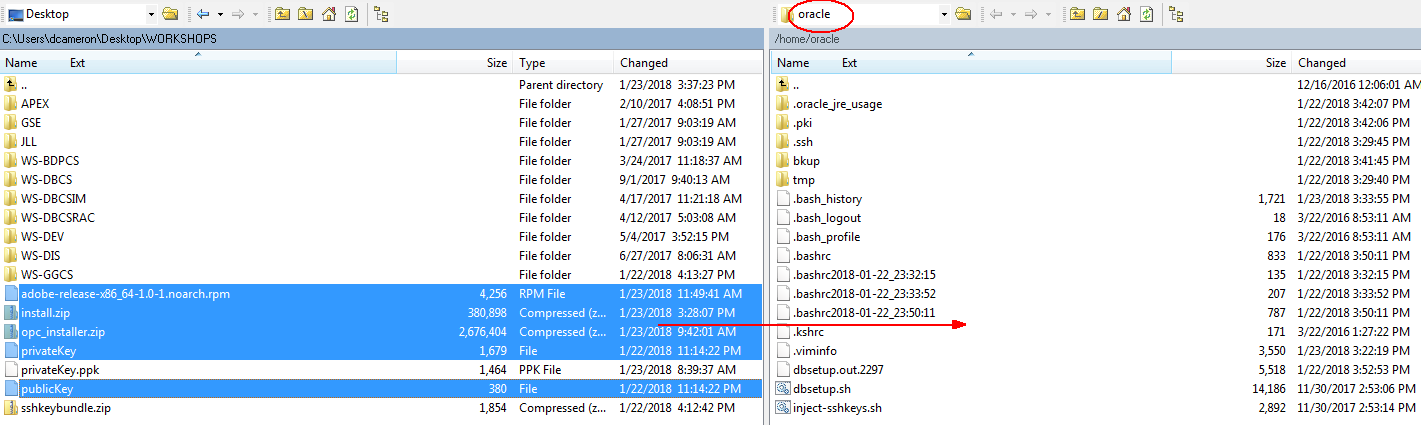
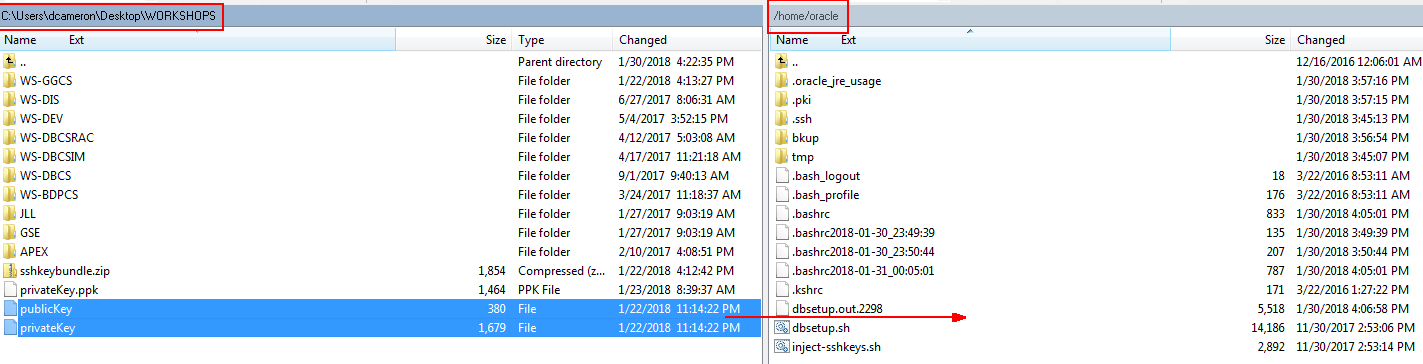
updates

diff --git a/workshops/dbcs-dba/Setup.md b/workshops/dbcs-dba/Setup.md
@@ -66,23 +66,9 @@ The following creates a new DBCS Enterprise instance with backup to cloud.  Use 
 	![](images/setup/016.png)
 
 
-### **STEP 2**: Download Files and transfer to DBCS_WorkshopImage
+### **STEP 2**: Create ppk private key
 
--	Go to the following site to download opc_installer.zip:  `http://www.oracle.com/technetwork/database/availability/oracle-cloud-backup-2162729.html`
-
-	![](images/setup/001.1.png)
-
--	Go to the following site and download the adobe repository: `https://get.adobe.com/flashplayer/`.  Do not select the default - select download for a different operating system (Linux 64 bit).
-
-	![](images/setup/003.1.png)
-
--	Select the version YUM.
-
-	![](images/setup/004.1.png)
-
-	![](images/setup/005.1.png)
-
--	Go to the database console and retrieve the IP address.
+-	Go to the database console and retrieve the IP address.  **Note that this lab was updated with new screen shots and the IP address noted below will not be consistent throughout**.  We will reference two images:  WorkshopImage (this one) and later a Alpha01A-DBCS instance and will call these out in the workshop documentation by name rather than by IP address.
 
 	![](images/setup/017.png)
 
@@ -114,19 +100,19 @@ The following creates a new DBCS Enterprise instance with backup to cloud.  Use 
 
 	![](images/setup/025.png)
 
--	Drag the following files to the oracle folder.
+-	Drag the following files from your download location to the oracle folder.  First extract the sshkeybundle.zip file if you have not already done so.
 
 	![](images/setup/026.png)
 
 	![](images/setup/027.png)
 
-### **STEP 3**: Login and run install scripts
+### **STEP 3**: Log into your WorkshopImage and run install scripts
 
 -	Open Putty and log into the DBCS instance.
 
 	![](images/setup/028.png)
 
--	Select your SSH private key
+-	Select your SSH private privatekey.ppk key.
 
 	![](images/setup/029.png)
 
@@ -134,25 +120,24 @@ The following creates a new DBCS Enterprise instance with backup to cloud.  Use 
 
 	![](images/setup/030.png)
 
--	Switch to oracle user and unzip the install.zip file and then exit oracle login
-	- `sudo su - oracle`
-	- `unzip install.zip`
-	- `./install.sh`
-	- `exit`
+-	Install packages for desktop and VNC, and then install Oracle database objects (this will take a few minutes).  Enter the following:
+
+```
+sudo su -
+yum -y install git
+exit
+sudo su - oracle
+git clone https://github.com/pcdavies/DatabaseCloudServiceForDBAs.git
+mv /home/oracle/DatabaseCloudServiceForDBAs/workshops/dbcs-dba/install/install.zip .
+unzip install.zip
+/home/oracle/install/install.sh
+exit
+sudo su -
+/home/oracle/yum.sh
+exit
+```
 
 	![](images/setup/031.png)
-
--	Log in as root and install the adobe rpm
-	- `sudo su -`
-	- `cd /home/oracle`
-	- `rpm -ivh adobe-release-x86_64-1.0-1.noarch.rpm`
-
-	![](images/setup/032.png)
-
--	Install packages for desktop and VNC (this will take a few minutes).
-	- `./yum.sh`
-
-	![](images/setup/035.png)
 
 ### **STEP 4**: Setup Desktop
 
@@ -225,3 +210,27 @@ The following creates a new DBCS Enterprise instance with backup to cloud.  Use 
 	![](images/setup/054.png)
 
 	![](images/setup/055.png)
+
+### **STEP 6**: Download RMAN backup module and Adobe Flash yum repository.
+
+-	Go to the following site to download opc_installer.zip:  `http://www.oracle.com/technetwork/database/availability/oracle-cloud-backup-2162729.html`
+
+	![](images/setup/001.1.png)
+
+-	Go to the following site and download the adobe repository: `https://get.adobe.com/flashplayer/`.  Do not select the default - select download for a different operating system (Linux 64 bit).
+
+	![](images/setup/003.1.png)
+
+-	Select the version YUM.
+
+	![](images/setup/004.1.png)
+
+	![](images/setup/005.1.png)
+
+-	Log in as root and install the adobe rpm
+	- `sudo su -`
+	- `cd /home/oracle`
+	- `rpm -ivh adobe-release-x86_64-1.0-1.noarch.rpm`
+	- `yum -y install adobe-flash`
+
+	![](images/setup/032.png)
